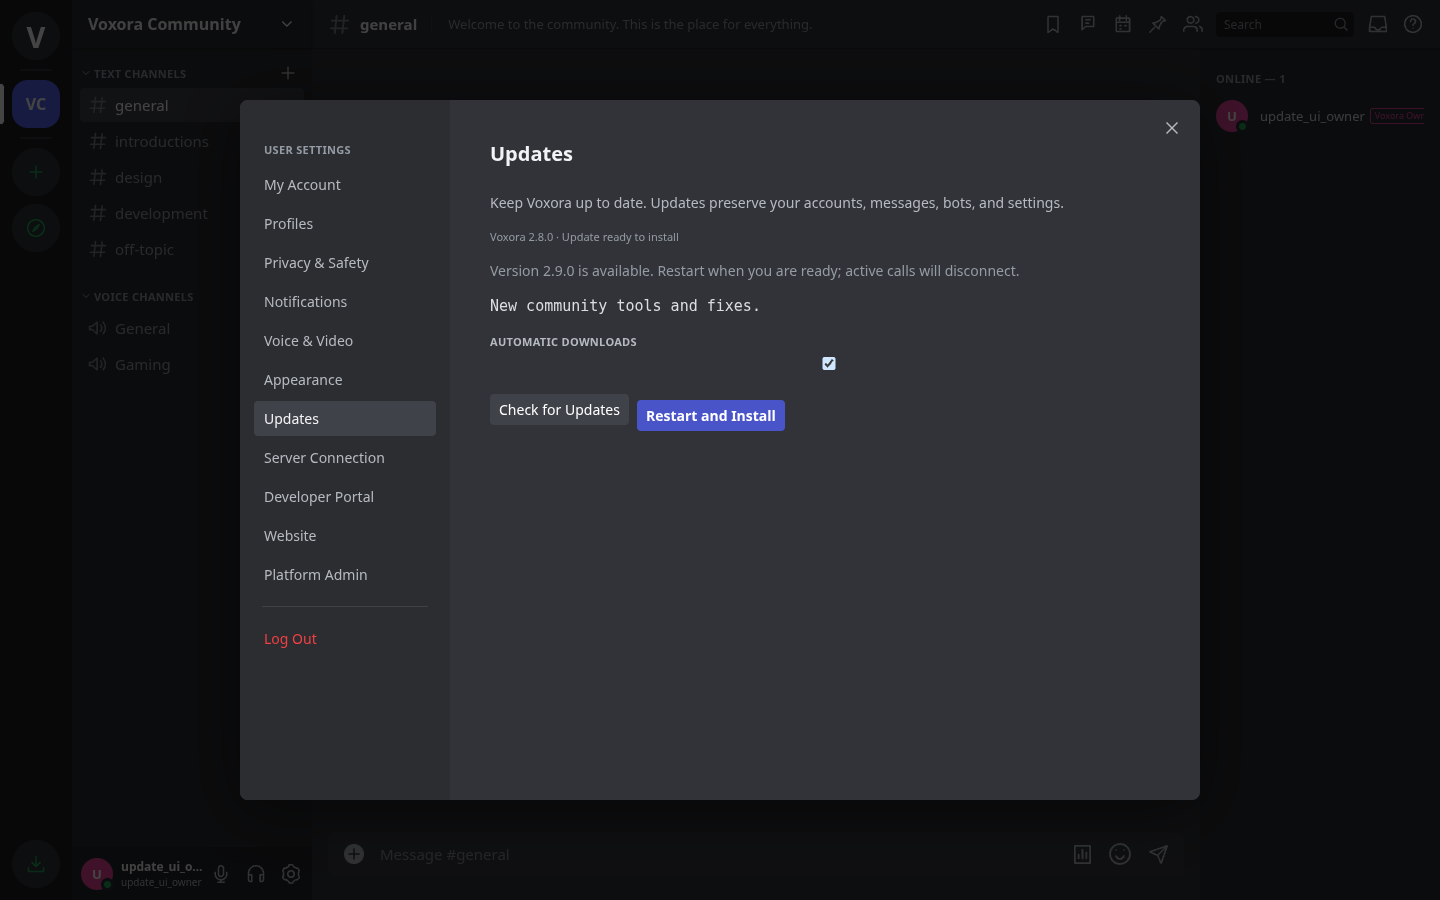
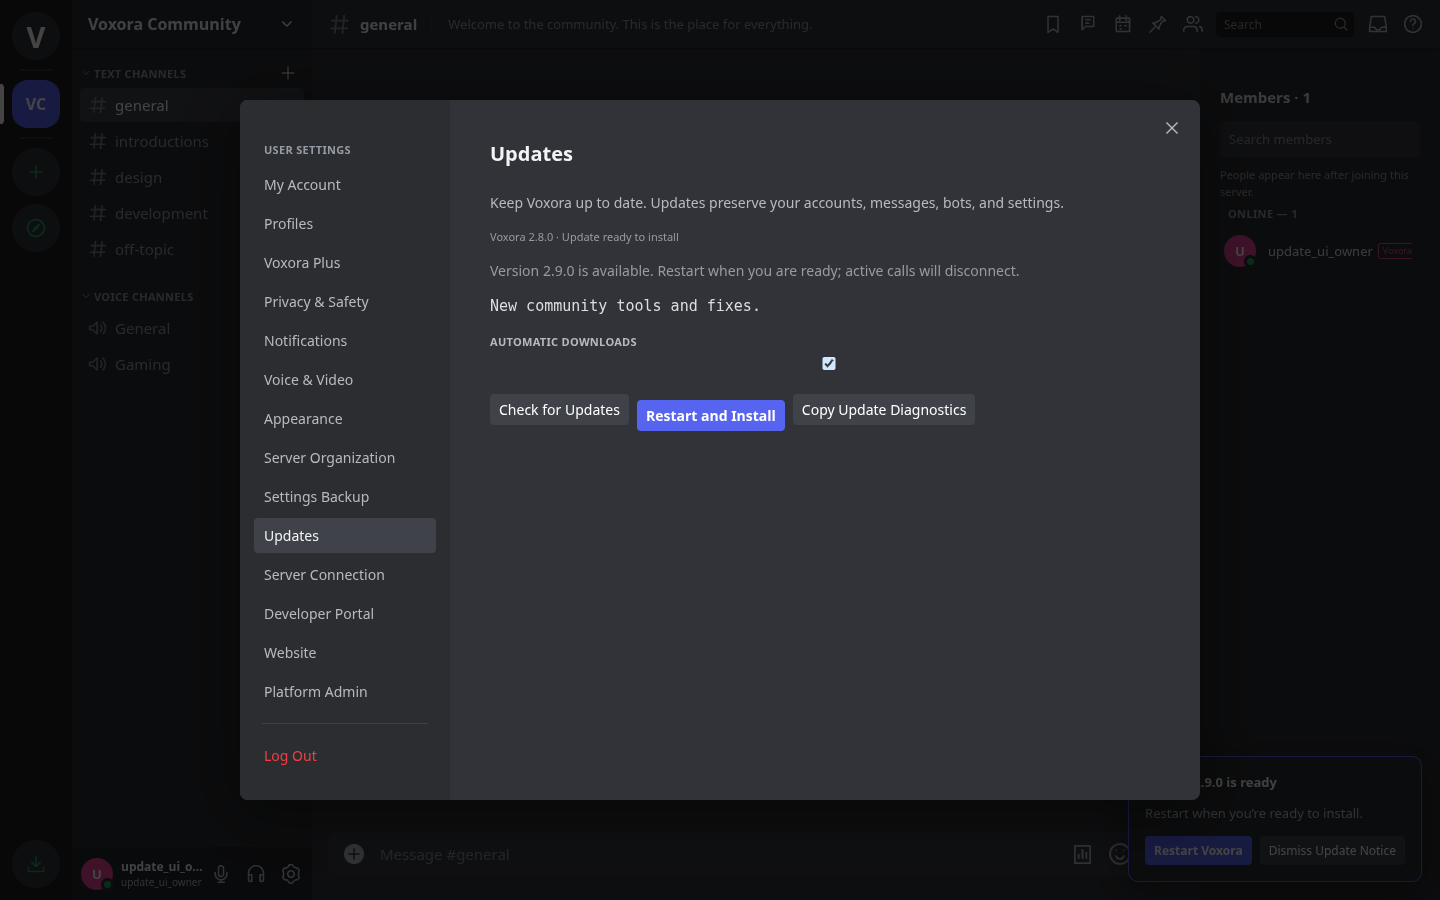
Fix PowerShell startup and validate survival after the GUI parent exits

diff --git a/README.md b/README.md
@@ -47,6 +47,8 @@ The member panel and **Server menu → Members** have counts and name/username s
 
 Use **Server menu → Edit Server Nickname** to choose a name for one server. Your username and other server identities stay the same. Members can search by nickname, global display name or username; existing message authors update live. **Change Nickname** and **Manage Nicknames** role permissions control self-editing and moderation, including hierarchy checks, resets, audit reasons and stale-edit protection. See [server profiles](docs/SERVER-PROFILES.md).
 
+![Server nicknames and live authors](docs/server-nicknames.png)
+
 ## Forum channels
 
 Choose **Forum** when creating a channel. Add colored tags, optionally require a tag, and start titled posts with attachments and threaded replies. Search titles/content, combine tags, filter archived or unread discussions, and sort by activity, date or reply count. Moderators can pin posts, lock/archive discussions and remove posts with their replies. Authors can edit their own content with stale-edit protection. AutoMod checks titles and content; channel permissions and slowmode remain enforced.
@@ -267,7 +269,7 @@ npx playwright install chromium
 npm run test:ui
 ```
 
-The forty-five browser scenarios exercise chat/message actions and uploads, two-user private servers/friends/DMs, a two-user WebRTC call carrying actual audio and video, narrow-screen navigation, role/channel management and moderation, listen-only voice with access revocation, category organization, privacy, inherited permissions and slowmode across reloads, persistent unread tracking and cross-device acknowledgement, notification modes and previews, navigation beyond the latest 200 messages, native poll voting, built-in bot installation and slash commands, custom bot creation/token issuance and SDK responses, the actual community bot process with economy and moderation, cross-server announcement following and attachment publishing, public discovery with private-channel protection, preset/shared layout templates, scheduled event RSVPs and calendar downloads, the public website with first-account ownership and staff moderation, live thread editing/deletion and locking, private saved notes with access revocation, custom emoji upload, messages, reactions, and renaming, desktop update controls with a controlled native bridge, owner-triggered update checks, welcome/rules/role setup, Discovery onboarding before any channel is visible, live AutoMod configuration/preview/blocking, case claims/private notes/resolution, member reports and receipts, source deletion, thread report navigation, live reviewer access revocation, private folder organization and unread badges, cross-device appearance, settings import/export with previews, stale forms, rapid appearance changes over a delayed connection, Plus owner grants and private plan status, premium profiles, server boosts, Stripe test checkout/portal links and signed cancellation updates. The forum and shared-platform scenarios cover required tags, attachments, live replies, post moderation, mobile layout, access revocation, offline member search, ordinary-account admin denial and connection setup without a local fallback. Server nickname and update-delivery scenarios also cover live author changes, hierarchy-controlled resets, mobile nickname search, domain-free setup, update notices before login, fallback transport, retry timing and diagnostics. Test media devices are synthetic. The 77-test backend/helper suite checks authentication, authorization, friend/block rules, attachments, migration, pagination, persistence after restart, role hierarchy and privilege escalation checks, delayed-request permission revocation, channel overrides, bans, invite limits, and ownership transfer, category migration/inheritance, private channels, ordering, persistent slowmode under concurrent requests, private inbox filtering, exact mention matching, read-state migration, stale-device protection persistent notification settings, thread pagination/reads and SDK gateway events, private saved-message references, custom emoji scopes and delayed upload revocation, copied announcement emoji assets, update feed validation, interrupted/corrupted downloads, persistent update preferences, cached update verification, owner-only update broadcasts, rules gating and version checks, role-menu hierarchy safety, automatic withdrawal of unsafe grants, private onboarding progress, Unicode/literal/domain filters, poll/edit/thread filtering, durable spam windows under concurrent requests, report deduplication and limits, private evidence, conflict protection, channel-filtered analytics, real case enforcement, queue capacity, moderation event privacy, private workspace migration and persistence, strict settings validation, safe merge/replace imports, version conflicts, delayed membership/suspension revocation, account-only workspace events, premium permissions/limits/expiry, delayed-plan revocation, boosted emoji capacity, Stripe signatures and canonical reconciliation, pending-checkout recovery, exact-price validation, billing mode isolation and safe catalog setup. The shared-platform tests also verify one owner under concurrent signup, persistent installation identity, no ownership reassignment after initialization, private-workspace labels, forum API/SDK authorization, stale post edits and delayed access revocation. Tests use isolated temporary data directories.
+The forty-five browser scenarios exercise chat/message actions and uploads, two-user private servers/friends/DMs, a two-user WebRTC call carrying actual audio and video, narrow-screen navigation, role/channel management and moderation, listen-only voice with access revocation, category organization, privacy, inherited permissions and slowmode across reloads, persistent unread tracking and cross-device acknowledgement, notification modes and previews, navigation beyond the latest 200 messages, native poll voting, built-in bot installation and slash commands, custom bot creation/token issuance and SDK responses, the actual community bot process with economy and moderation, cross-server announcement following and attachment publishing, public discovery with private-channel protection, preset/shared layout templates, scheduled event RSVPs and calendar downloads, the public website with first-account ownership and staff moderation, live thread editing/deletion and locking, private saved notes with access revocation, custom emoji upload, messages, reactions, and renaming, desktop update controls with a controlled native bridge, owner-triggered update checks, welcome/rules/role setup, Discovery onboarding before any channel is visible, live AutoMod configuration/preview/blocking, case claims/private notes/resolution, member reports and receipts, source deletion, thread report navigation, live reviewer access revocation, private folder organization and unread badges, cross-device appearance, settings import/export with previews, stale forms, rapid appearance changes over a delayed connection, Plus owner grants and private plan status, premium profiles, server boosts, Stripe test checkout/portal links and signed cancellation updates. The forum and shared-platform scenarios cover required tags, attachments, live replies, post moderation, mobile layout, access revocation, offline member search, ordinary-account admin denial and connection setup without a local fallback. Server nickname and update-delivery scenarios also cover live author changes, hierarchy-controlled resets, mobile nickname search, domain-free setup, update notices before login, fallback transport, retry timing and diagnostics. Test media devices are synthetic. The 78-test backend/helper suite checks authentication, authorization, friend/block rules, attachments, migration, pagination, persistence after restart, role hierarchy and privilege escalation checks, delayed-request permission revocation, channel overrides, bans, invite limits, and ownership transfer, category migration/inheritance, private channels, ordering, persistent slowmode under concurrent requests, private inbox filtering, exact mention matching, read-state migration, stale-device protection persistent notification settings, thread pagination/reads and SDK gateway events, private saved-message references, custom emoji scopes and delayed upload revocation, copied announcement emoji assets, update feed validation, interrupted/corrupted downloads, persistent update preferences, cached update verification, owner-only update broadcasts, rules gating and version checks, role-menu hierarchy safety, automatic withdrawal of unsafe grants, private onboarding progress, Unicode/literal/domain filters, poll/edit/thread filtering, durable spam windows under concurrent requests, report deduplication and limits, private evidence, conflict protection, channel-filtered analytics, real case enforcement, queue capacity, moderation event privacy, private workspace migration and persistence, strict settings validation, safe merge/replace imports, version conflicts, delayed membership/suspension revocation, account-only workspace events, premium permissions/limits/expiry, delayed-plan revocation, boosted emoji capacity, Stripe signatures and canonical reconciliation, pending-checkout recovery, exact-price validation, billing mode isolation and safe catalog setup. The shared-platform tests also verify one owner under concurrent signup, persistent installation identity, no ownership reassignment after initialization, private-workspace labels, forum API/SDK authorization, stale post edits and delayed access revocation. Tests use isolated temporary data directories.
 
 For a compatible existing Chromium binary, set `VOXORA_BROWSER_PATH`. This cloud environment uses the npm-distributed `@sparticuz/chromium` binary because the Playwright CDN is unavailable; `VOXORA_BROWSER_MODULE` can point to its `build/index.js` for the corresponding launch arguments.
 

diff --git a/docs/releases/2.14.0.md b/docs/releases/2.14.0.md
@@ -1,6 +1,7 @@
 Voxora 2.14.0 removes the domain requirement from setup, improves automatic update delivery and adds server nicknames.
 
 - Open Local Workspace is the main setup action. No voxora.com address, DNS or hosted backend is required. Optional shared connections start with a blank address and retain saved configurations. Existing local accounts and messages are preserved.
+- The Windows helper no longer uses the detached-process flag that can make PowerShell exit successfully without executing its script. The app still waits for verified helper readiness before closing. Install 2.14 manually once if an earlier helper cannot start.
 - Updates check on startup and every minute, after waking/focusing the app and reconnecting. Failed checks/downloads retry with backoff beginning at 15 seconds. Feed requests bypass the mutable cache.
 - If the primary download host fails, the updater resolves the exact public Git LFS object through the official repository. GitHub storage paths, expected size, Windows executable headers and SHA-256 are validated before an update becomes installable. Temporary signed URLs are not persisted or exported.
 - Update availability, progress and failures appear outside Settings. Setup has update controls before login, and Copy Update Diagnostics supplies recent local update events without chat data or credentials.

diff --git a/docs/UPDATES.md b/docs/UPDATES.md
@@ -2,6 +2,8 @@
 
 Install **Voxora 2.14.0 manually** if an earlier updater closes the app without installing/reopening it. Close Voxora and run the new installer; your data is preserved. Versions before 2.8 have no update checker. Automatic updates support the installed Windows x64 app; source-mode Electron and other operating systems show an unsupported status.
 
+Versions before 2.14 could launch Windows PowerShell with a detached-process flag that exits successfully without executing the helper. Install 2.14 manually once if Restart and Install fails. The corrected launcher uses file-backed output and releases its process reference after a matching readiness acknowledgement; the helper continues after the GUI exits.
+
 ## Local setup and shared connections
 
 Choose **Open Local Workspace** to use Voxora without a domain or hosted server. The optional shared-server field starts blank. Failed shared connections never create a replacement local backend. **Voxora → Server Connection** lets you reopen a private workspace or choose any supported shared backend. Desktop updates work independently of your workspace address. See [local/shared hosting and migration](SHARED-PLATFORM.md).
